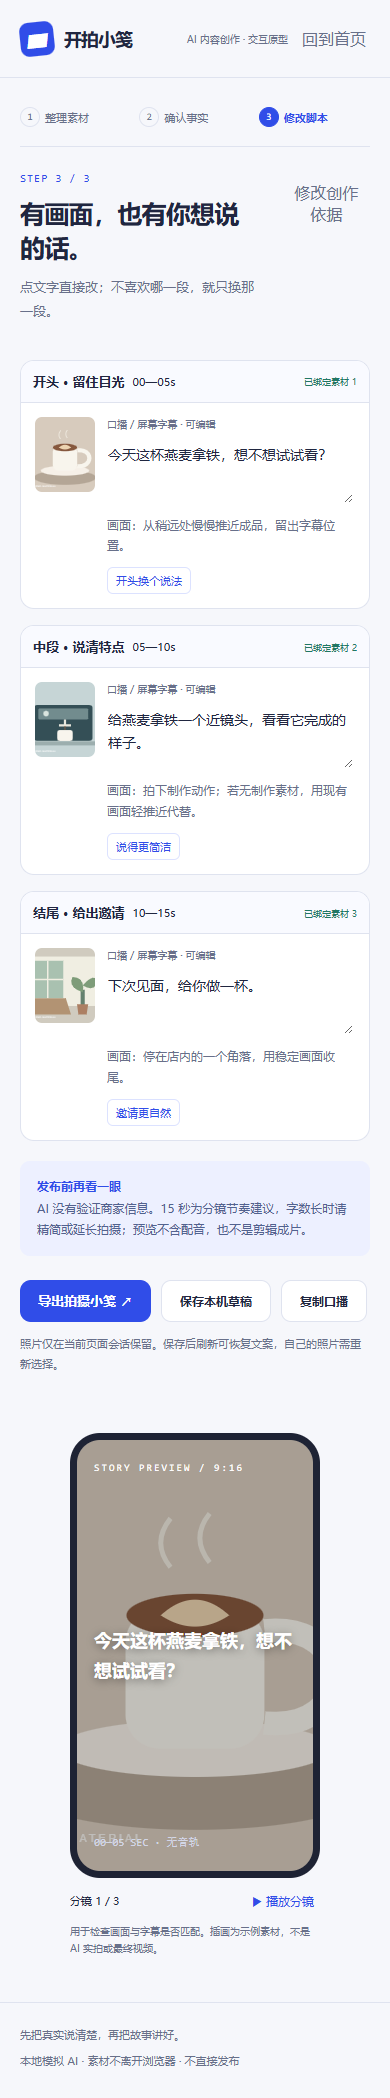
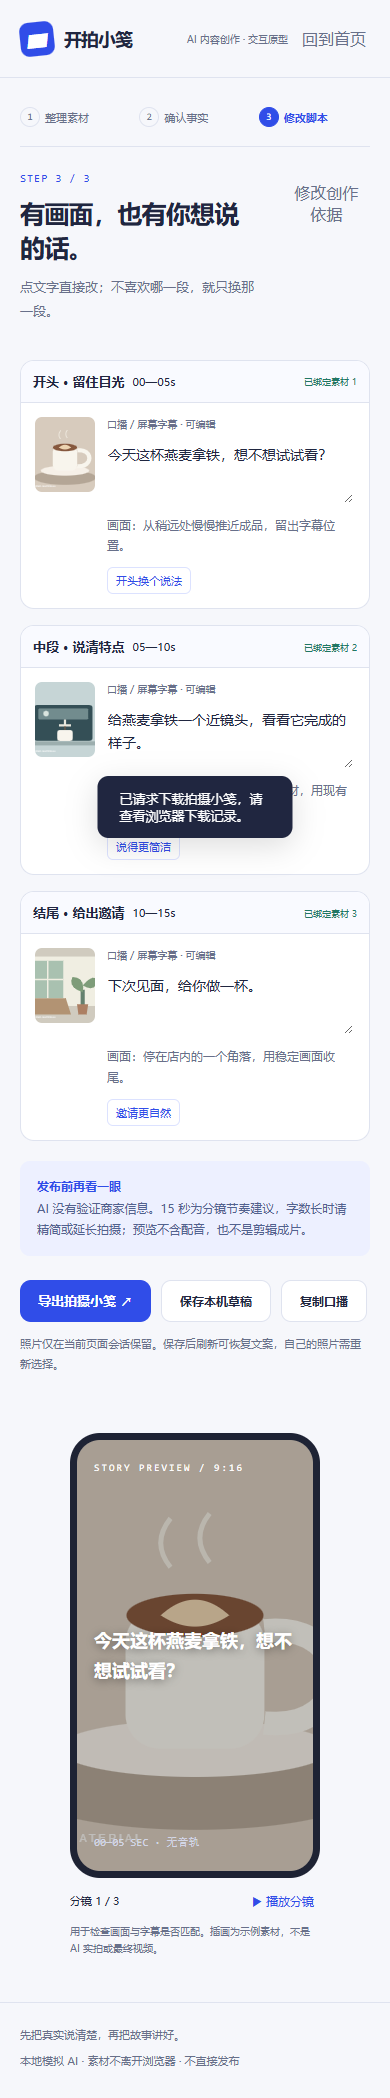
fix: guard invalid image replacement while decoding and verify recovery

Changed region(s): [[0.2462, 0.3718, 0.7692, 0.4028]]

diff --git a/demo/app.js b/demo/app.js
@@ -437,6 +437,7 @@
           file = e.target.files?.[0];
         if (!file) return;
         const uploadVersion = ++uploadVersions[index];
+        state.assets[index].pending = false;
         state.fileError = "";
         if (
           !["image/png", "image/jpeg", "image/webp"].includes(file.type) ||
